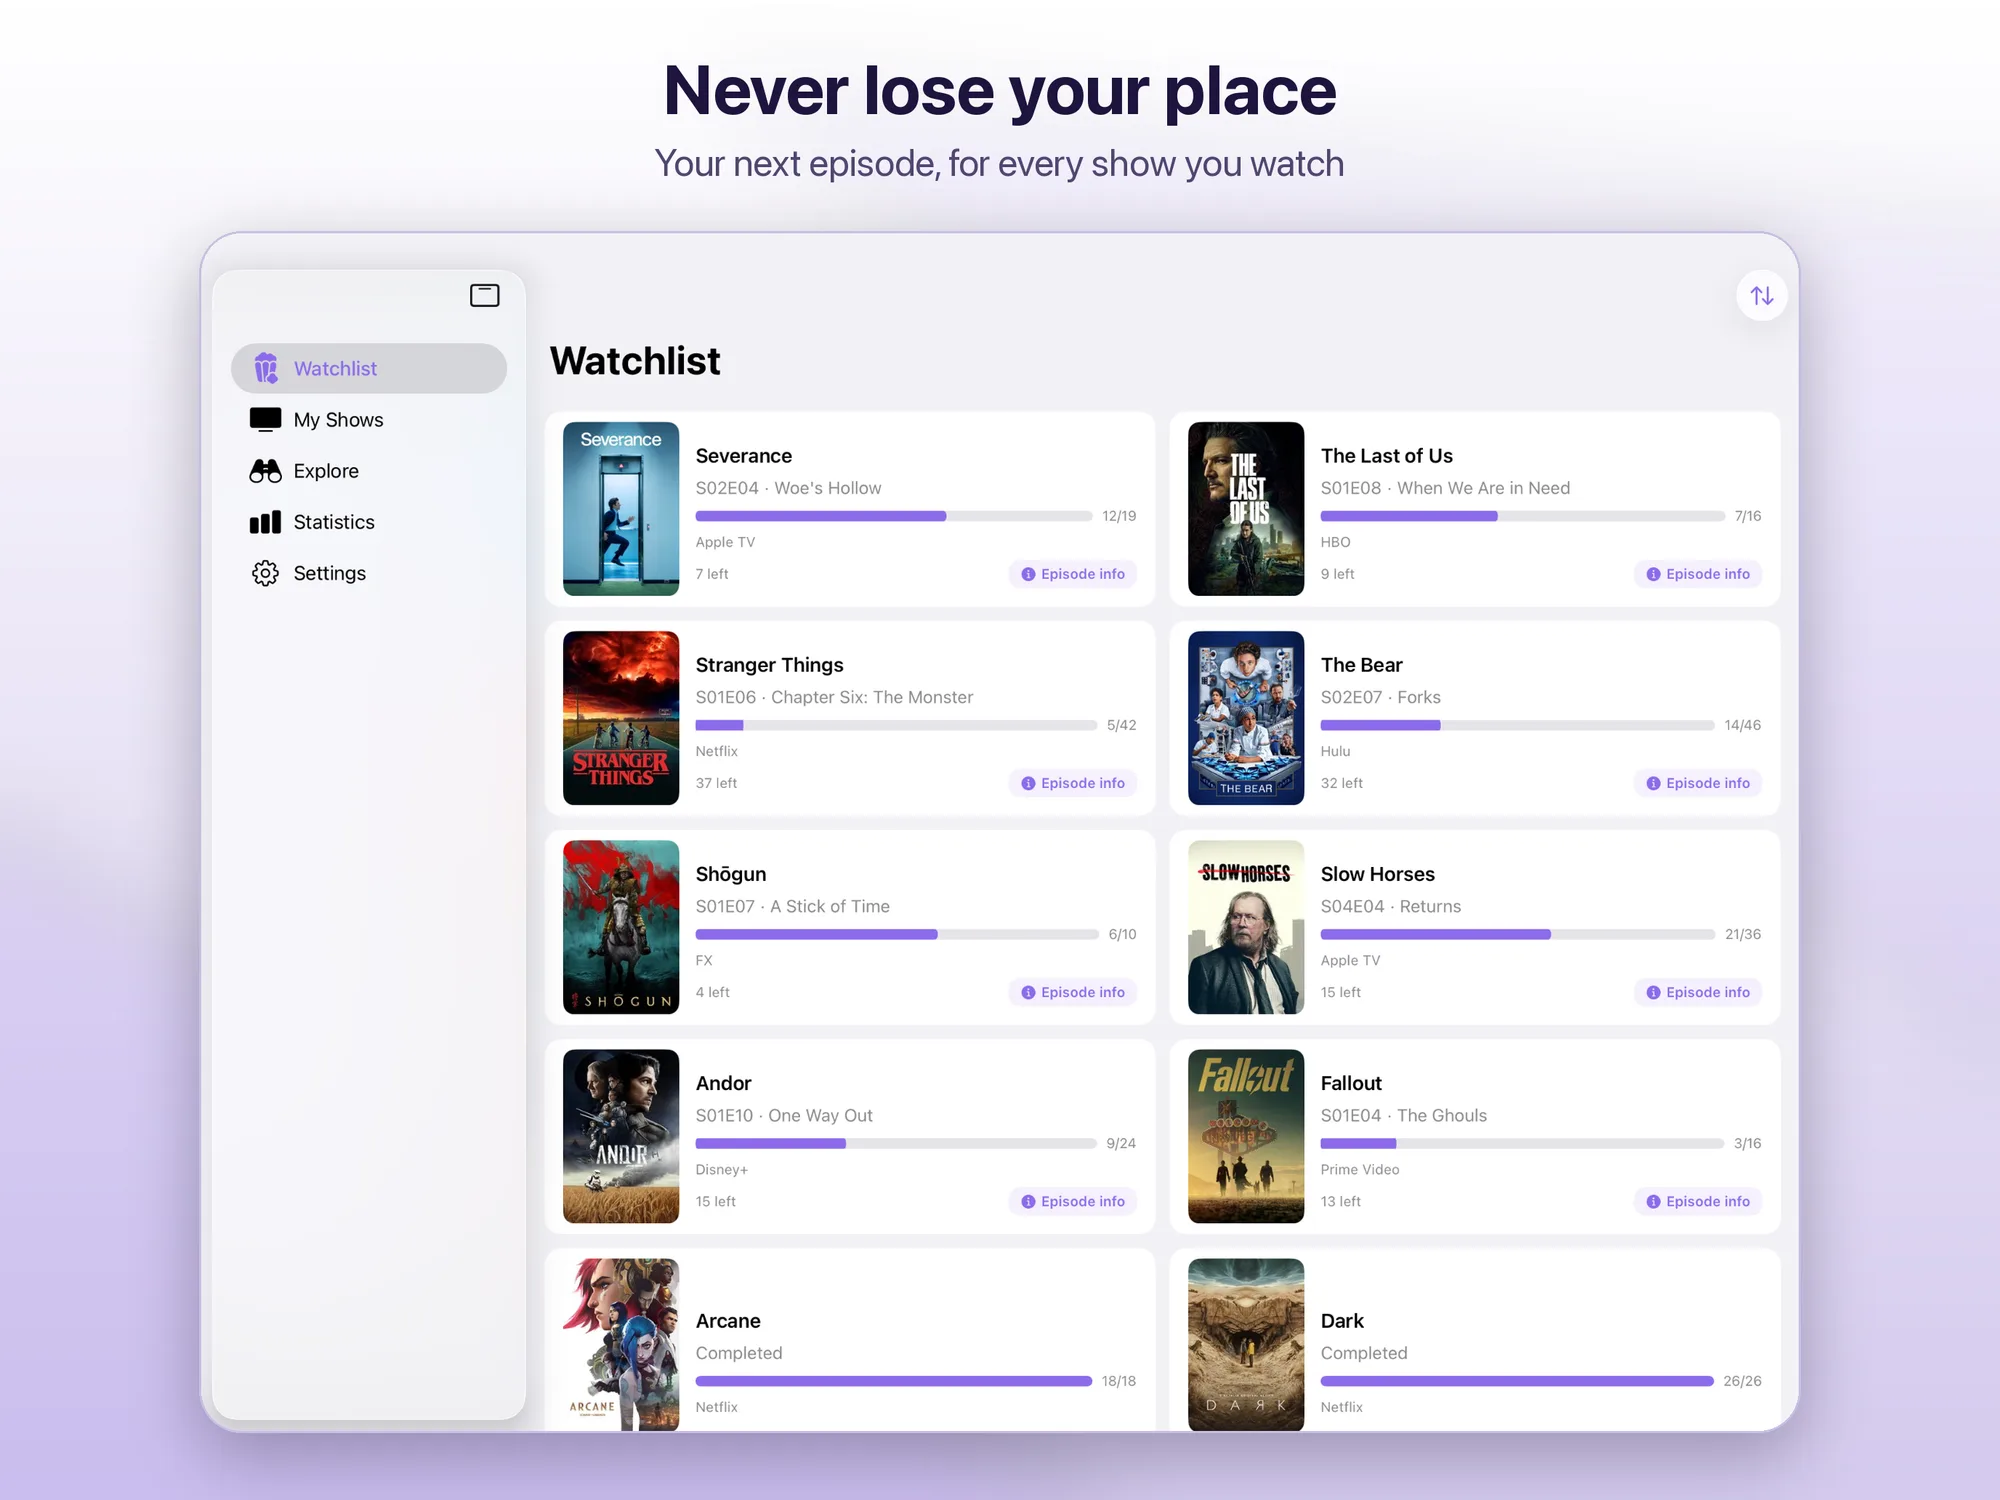
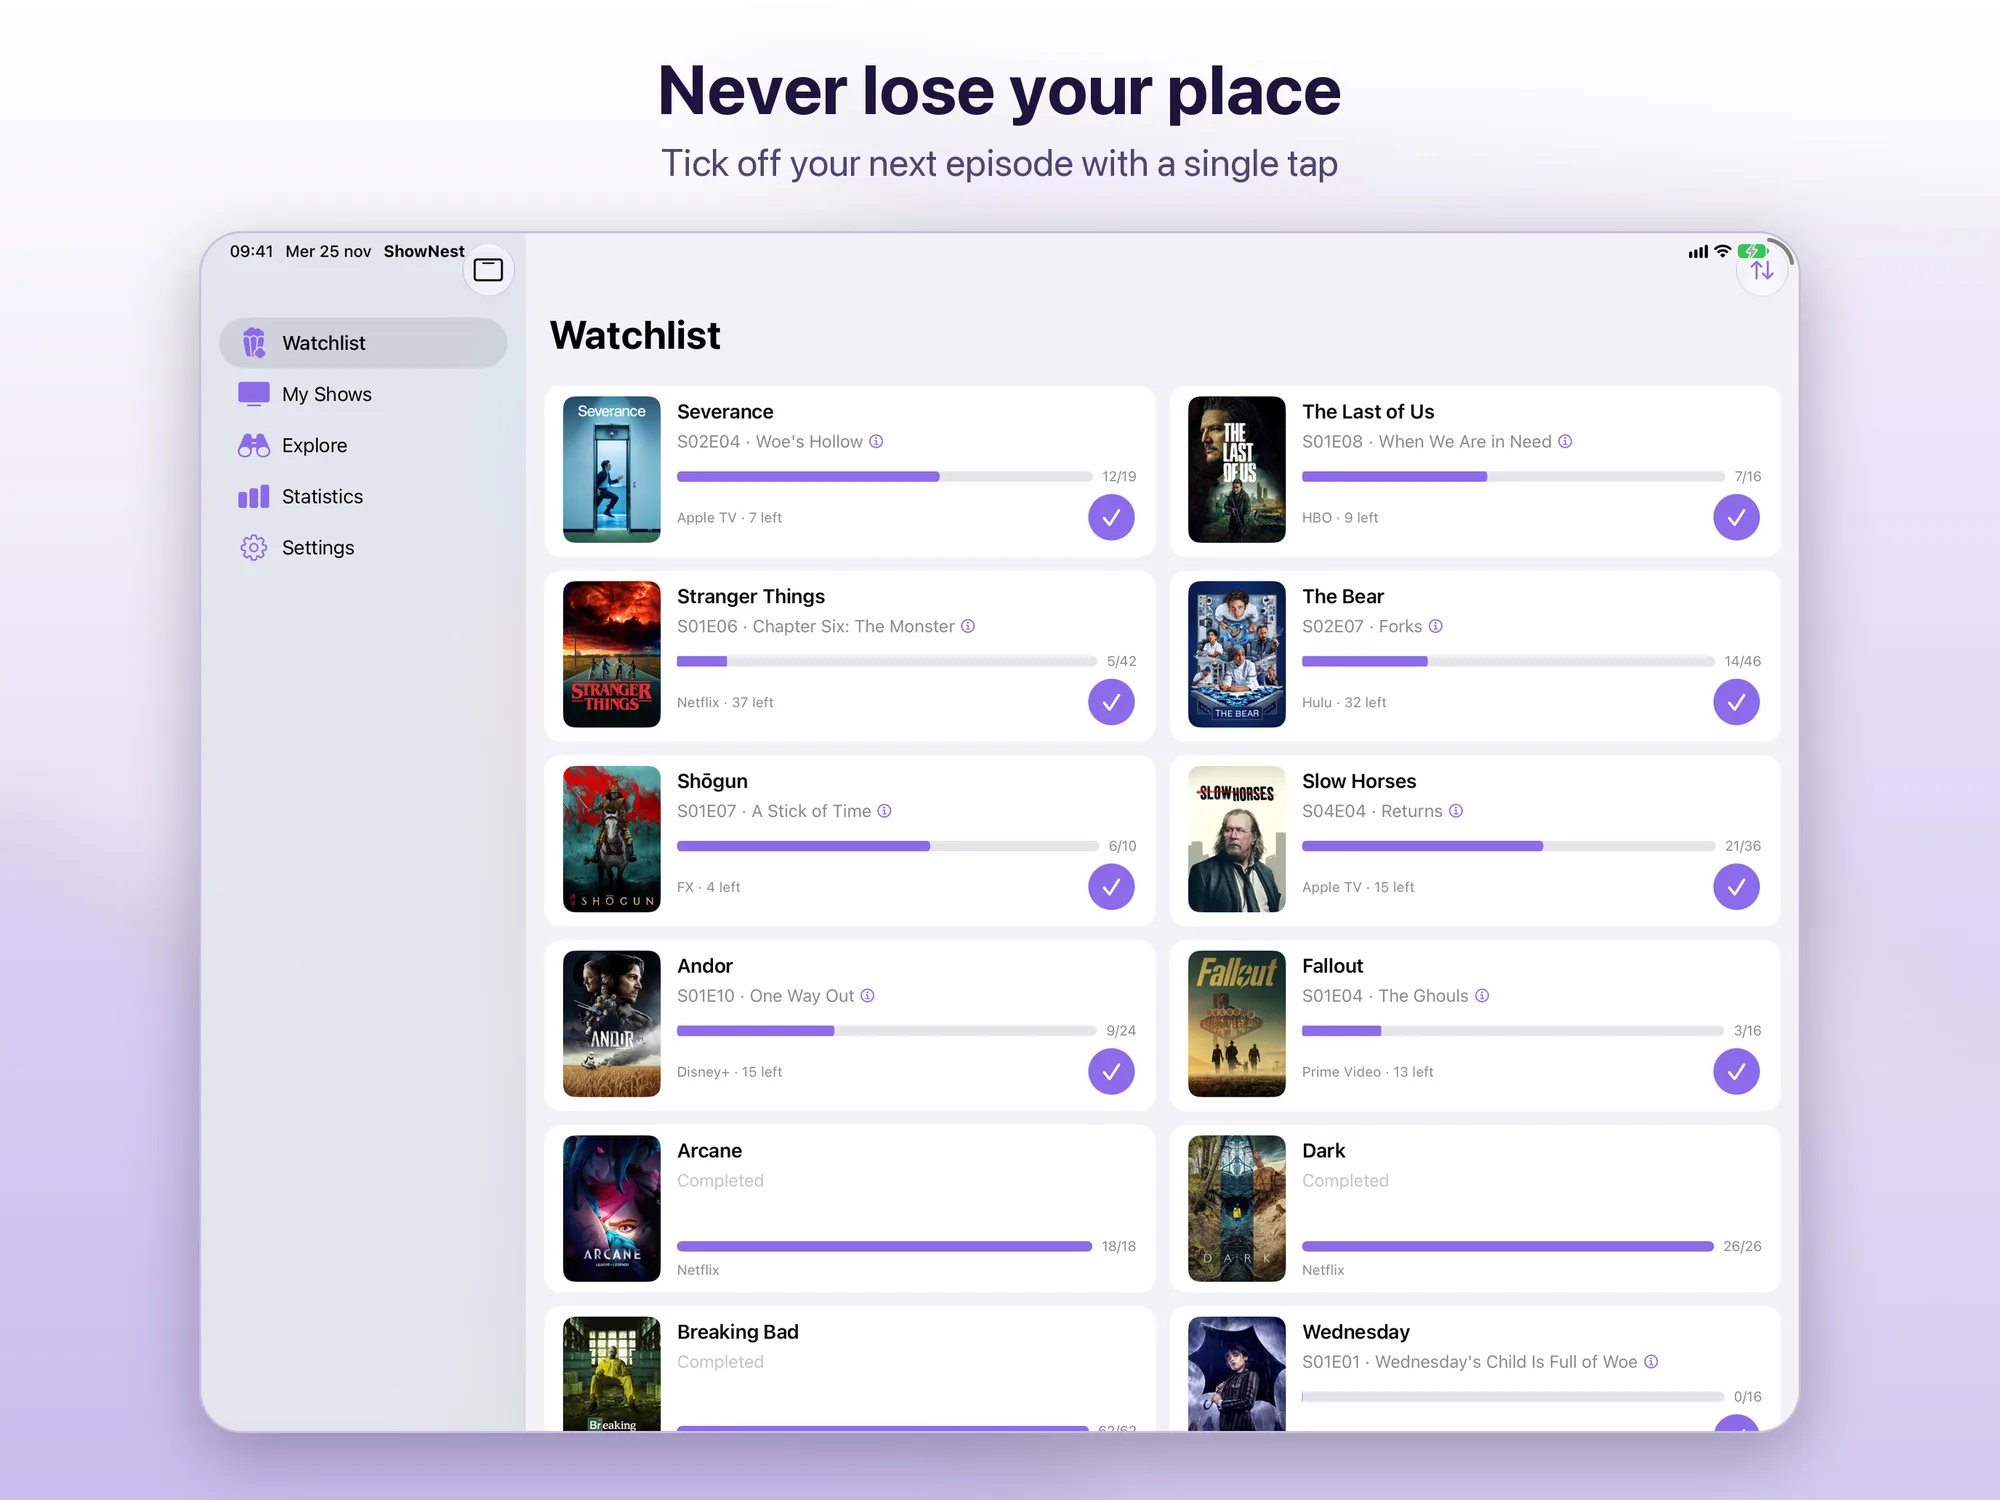
feat(shownest): pagina, documentazione e screenshot per la 1.1.0
Watchlist con pulsante ✓, scorrimento e Annulla, «Segna fino a qui», pagina
della stagione, frecce nella scheda episodio, stagioni in arrivo, media
mensile e cronologia filtrabile. Screenshot iPhone dalla cartella iphone-6.3,
nuova icona, frase mancante nella privacy.

diff --git a/src/data/docs/shownest/esplorazione-e-watchlist.md b/src/data/docs/shownest/esplorazione-e-watchlist.md
@@ -22,7 +22,7 @@ La scheda **Esplora** di ShowNest ti aiuta a scoprire nuovi titoli con diverse s
 Per aggiungere una serie basta un tocco dalla sua scheda. La **Watchlist** mostra:
 
 ### Da vedere
-Per ogni serie in corso, il prossimo episodio non ancora visto con il suo codice (es. *S02E04*) e il titolo. Con un tocco lo segni come visto e, se hai sbagliato, puoi annullare l'ultimo episodio segnato.
+Per ogni serie in corso, il prossimo episodio non ancora visto con il suo codice (es. *S02E04*) e il titolo. Lo segni come visto con il pulsante ✓ della riga, oppure scorrendo la riga verso destra. In basso compare per qualche secondo un avviso con **Annulla**, che toglie l'episodio appena segnato. Scorrendo la riga verso sinistra apri **Segna individualmente**, per scegliere gli episodi uno per uno.
 
 ### In uscita
 Le serie in cui sei in pari mostrano quanti giorni mancano al prossimo episodio annunciato.
@@ -47,6 +47,9 @@ La scheda **Le mie serie** raggruppa la libreria in base a ciò che hai fatto co
 
 Nella scheda di una serie puoi:
 - **Segnare un singolo episodio** o una **stagione intera** come vista, oppure usare **Segna tutti come visti** per l'intera serie (comodo per le serie che hai già guardato in passato).
+- **Segnare fino a un episodio**: nel menu di un episodio, **Segna fino a qui** segna come visti quell'episodio e tutti i precedenti, anche delle stagioni prima (gli speciali restano fuori). Gli episodi già segnati conservano la loro data.
 - **Scegliere la data**: segna gli episodi come visti oggi o nel giorno in cui sono andati in onda, così le statistiche restano fedeli.
 - **Deselezionare una stagione** o un episodio segnati per errore.
-- **Aprire i dettagli di un episodio**: titolo, trama, durata e data di messa in onda.
+- **Aprire i dettagli di un episodio**: titolo, trama, durata e data di messa in onda. Con le frecce **Episodio precedente** ed **Episodio successivo** passi agli altri episodi della stagione senza chiudere la scheda.
+
+La pagina di una stagione mostra in alto quanti episodi hai visto (per esempio *5 di 10 visti*) e qual è il prossimo. Le stagioni annunciate ma non ancora iniziate sono indicate come **In arrivo**, con la data di inizio quando TMDB la conosce.

diff --git a/src/data/projects/shownest.md b/src/data/projects/shownest.md
@@ -20,11 +20,11 @@ ShowNest ti dice sempre qual è il prossimo episodio da vedere: segui le tue ser
 
 ## Funzionalità principali
 
-- **La tua watchlist** — il prossimo episodio di ogni serie che segui; per quelle in cui sei in pari, i giorni che mancano al prossimo episodio; ordinamento per visione recente, aggiunta recente, ultimo episodio uscito, titolo o episodi rimanenti
-- **Segna gli episodi come preferisci** — uno alla volta, una stagione intera o tutta la serie, come visti oggi o nel giorno in cui sono usciti, con l'annullamento dell'ultimo episodio segnato
+- **La tua watchlist** — il prossimo episodio di ogni serie che segui; per quelle in cui sei in pari, i giorni che mancano al prossimo episodio; lo segni come visto con il pulsante ✓ o scorrendo la riga, e lo annulli subito con «Annulla»; ordinamento per visione recente, aggiunta recente, ultimo episodio uscito, titolo o episodi rimanenti
+- **Segna gli episodi come preferisci** — uno alla volta, una stagione intera, tutta la serie o tutti quelli fino a un episodio con «Segna fino a qui», come visti oggi o nel giorno in cui sono usciti; la pagina di ogni stagione mostra quanti episodi hai visto e qual è il prossimo
 - **Le mie serie** — la libreria divisa in In uscita, In corso, Da iniziare e Completate, più l'archivio per le serie finite, che restano nelle statistiche
 - **Trova cosa guardare** — Tendenze, Popolari, Più votate e In onda oggi, suggerimenti in base a ciò che segui e ricerca in tutto il catalogo di TMDB, con trailer e titoli simili
-- **Statistiche** — tempo totale, episodi visti, serie completate, riepilogo dell'anno, giorni consecutivi, generi preferiti e cronologia di ogni visione
+- **Statistiche** — tempo totale, episodi visti, serie completate, andamento mensile con la media, riepilogo dell'anno, giorni consecutivi, generi preferiti e cronologia di ogni visione, filtrabile per serie
 - **Notifiche nuovi episodi** — un avviso il giorno in cui esce un nuovo episodio delle serie che segui
 - **Sincronizzazione iCloud facoltativa** — libreria ed episodi visti allineati tra iPhone e iPad
 - **A modo tuo** — tema chiaro, scuro o di sistema, sei colori d'accento, sette lingue

diff --git a/src/data/en/projects/shownest.md b/src/data/en/projects/shownest.md
@@ -20,11 +20,11 @@ ShowNest always tells you which episode is next: follow your TV shows, mark the 
 
 ## Key Features
 
-- **Your watchlist** — the next episode of every show you follow; for shows you're caught up on, the days until the next episode; sorting by recently watched, recently added, newest episode, title or episodes left
-- **Mark episodes your way** — one at a time, a whole season or the entire show, as watched today or on their air date, with undo for the last episode you marked
+- **Your watchlist** — the next episode of every show you follow; for shows you're caught up on, the days until the next episode; mark it as watched with the ✓ button or a swipe on the row, and take it back right away with Undo; sorting by recently watched, recently added, newest episode, title or episodes left
+- **Mark episodes your way** — one at a time, a whole season, the entire show or everything up to an episode with Mark up to here, as watched today or on their air date; each season's page shows how many episodes you've seen and which one is next
 - **My Shows** — your library split into Coming Up, In progress, Not started and Completed, plus an archive for finished shows, which still count in your statistics
 - **Find something to watch** — Trending, Popular, Top Rated and Airing Today, suggestions based on what you follow and search across the whole TMDB catalog, with trailers and similar titles
-- **Statistics** — total time, episodes watched, completed shows, yearly recap, day streaks, favorite genres and a history of everything you've watched
+- **Statistics** — total time, episodes watched, completed shows, monthly trend with the average, yearly recap, day streaks, favorite genres and a history of everything you've watched, filterable by show
 - **New-episode notifications** — an alert on the day a new episode of your shows comes out
 - **Optional iCloud sync** — your library and watched episodes kept in step between iPhone and iPad
 - **Your way** — light, dark or system theme, six accent colors, seven languages

diff --git a/src/data/en/docs/shownest/discovery-and-watchlist.md b/src/data/en/docs/shownest/discovery-and-watchlist.md
@@ -22,7 +22,7 @@ The **Explore** tab in ShowNest helps you find new titles through several sectio
 Adding a show takes one tap from its page. The **Watchlist** shows:
 
 ### Up Next
-For every show in progress, the next unwatched episode with its code (e.g. *S02E04*) and title. One tap marks it as watched and, if you made a mistake, you can undo the last episode you marked.
+For every show in progress, the next unwatched episode with its code (e.g. *S02E04*) and title. Mark it as watched with the row's ✓ button, or by swiping the row to the right. A notice with **Undo** appears at the bottom for a few seconds and takes back the episode you just marked. Swiping the row to the left opens **Mark Individual**, to pick episodes one by one.
 
 ### Coming Up
 Shows you're caught up on display how many days are left until the next announced episode.
@@ -47,6 +47,9 @@ The **My Shows** tab groups your library by what you've done with each show:
 
 On a show's page you can:
 - **Mark a single episode** or a **whole season** as watched, or use **Mark All Watched** for the entire show (handy for shows you watched in the past).
+- **Mark up to an episode**: in an episode's menu, **Mark up to here** marks that episode and every earlier one as watched, earlier seasons included (specials are left out). Episodes already marked keep their date.
 - **Pick the date**: mark episodes as watched today or on the day they aired, so your statistics stay accurate.
 - **Unmark a season** or an episode marked by mistake.
-- **Open an episode's details**: title, synopsis, runtime and air date.
+- **Open an episode's details**: title, synopsis, runtime and air date. The **Previous episode** and **Next episode** arrows move to the other episodes of the season without closing the sheet.
+
+A season's page shows at the top how many episodes you've seen (for example *5 of 10 watched*) and which one is next. Seasons that are announced but haven't started yet are marked **Coming soon**, with their start date when TMDB has one.

diff --git a/src/data/docs/shownest/notifiche-e-statistiche.md b/src/data/docs/shownest/notifiche-e-statistiche.md
@@ -22,8 +22,8 @@ La scheda **Statistiche** trasforma le tue visioni in numeri e grafici:
 
 - **Tempo totale di visione**: la somma della durata degli episodi che hai visto, in ore e minuti.
 - **Contatori**: serie seguite (e archiviate), episodi visti e serie completate.
-- **Riepilogo dell'anno**: le ore di visione mese per mese in un grafico a barre, a confronto con l'anno precedente.
+- **Andamento mensile e riepilogo dell'anno**: le ore di visione mese per mese in un grafico a barre, con una linea tratteggiata per la media mensile, a confronto con l'anno precedente.
 - **Ritmo di visione**: il giorno della settimana in cui guardi di più, la media giornaliera, i giorni consecutivi di visione e il tuo record.
 - **Tempo rimanente e tasso di completamento**: quanto ti manca per finire le serie in corso e quante delle serie iniziate hai portato a termine.
 - **Generi preferiti**: la percentuale di ciascun genere sul totale delle tue visioni.
-- **Serie più viste** e **cronologia** di tutte le visioni, con la data di ogni episodio.
+- **Serie più viste** e **Cronologia visione**: ogni episodio visto, con il titolo e la data; la cronologia si filtra per serie (**Filtra per serie**) e si apre anche dalle Impostazioni.

diff --git a/src/data/en/docs/shownest/notifications-and-statistics.md b/src/data/en/docs/shownest/notifications-and-statistics.md
@@ -22,8 +22,8 @@ The **Statistics** tab turns your viewing into numbers and charts:
 
 - **Total watch time**: the sum of the runtimes of the episodes you've watched, in hours and minutes.
 - **Counters**: shows tracked (and archived), episodes watched and shows completed.
-- **Yearly recap**: hours watched month by month in a bar chart, compared with the previous year.
+- **Monthly trend and yearly recap**: hours watched month by month in a bar chart, with a dashed line for the monthly average, compared with the previous year.
 - **Viewing rhythm**: the weekday you watch most, your daily average, your current day streak and your record.
 - **Time left and completion rate**: how much is left to finish your shows in progress and how many of the shows you started you've finished.
 - **Favorite genres**: each genre's share of everything you've watched.
-- **Most watched shows** and a **history** of every episode you've watched, with dates.
+- **Most watched shows** and **Watch History**: every episode you've watched, with its title and date; the history can be filtered by show (**Filter by show**) and also opens from Settings.

diff --git a/src/pages/en/projects/shownest/privacy.md b/src/pages/en/projects/shownest/privacy.md
@@ -10,6 +10,8 @@ This Privacy Policy describes how **ShowNest** handles data.
 
 ## Summary
 
+ShowNest is designed to operate locally on the user's device.
+
 - No account is required
 - No analytics tools are used
 - No advertising SDKs are used
@@ -18,7 +20,7 @@ This Privacy Policy describes how **ShowNest** handles data.
 - iCloud sync, if enabled by the user, happens directly between the device and the user's own Apple Account and does not pass through the developer's servers
 - The app communicates with The Movie Database (TMDB) API to retrieve show and episode information; no personal data is included in these requests
 
-## Data processed by the app
+## Data the app handles
 
 The app allows the user to locally build and manage a library of TV shows, including:
 

diff --git a/src/pages/progetti/shownest/privacy.md b/src/pages/progetti/shownest/privacy.md
@@ -10,6 +10,8 @@ Questa Informativa sulla Privacy descrive come **ShowNest** tratta i dati.
 
 ## Sintesi
 
+ShowNest è progettata per funzionare localmente sul dispositivo dell'utente.
+
 - Non è richiesto alcun account
 - Non vengono utilizzati strumenti di analytics
 - Non vengono utilizzati SDK pubblicitari
